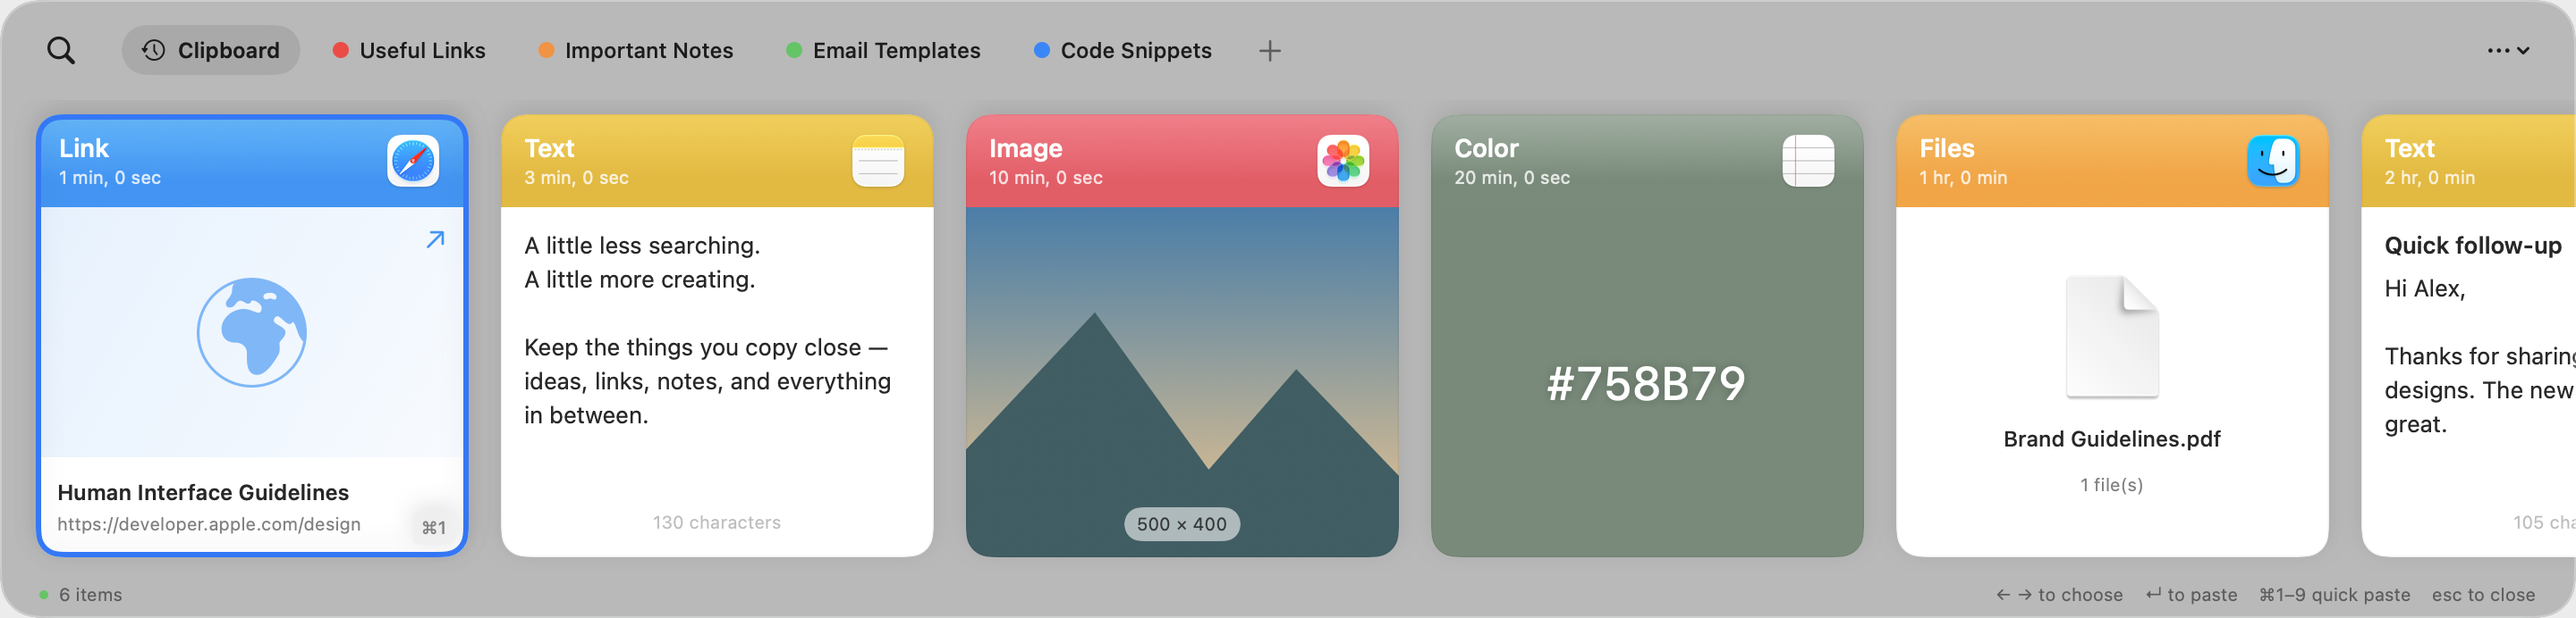
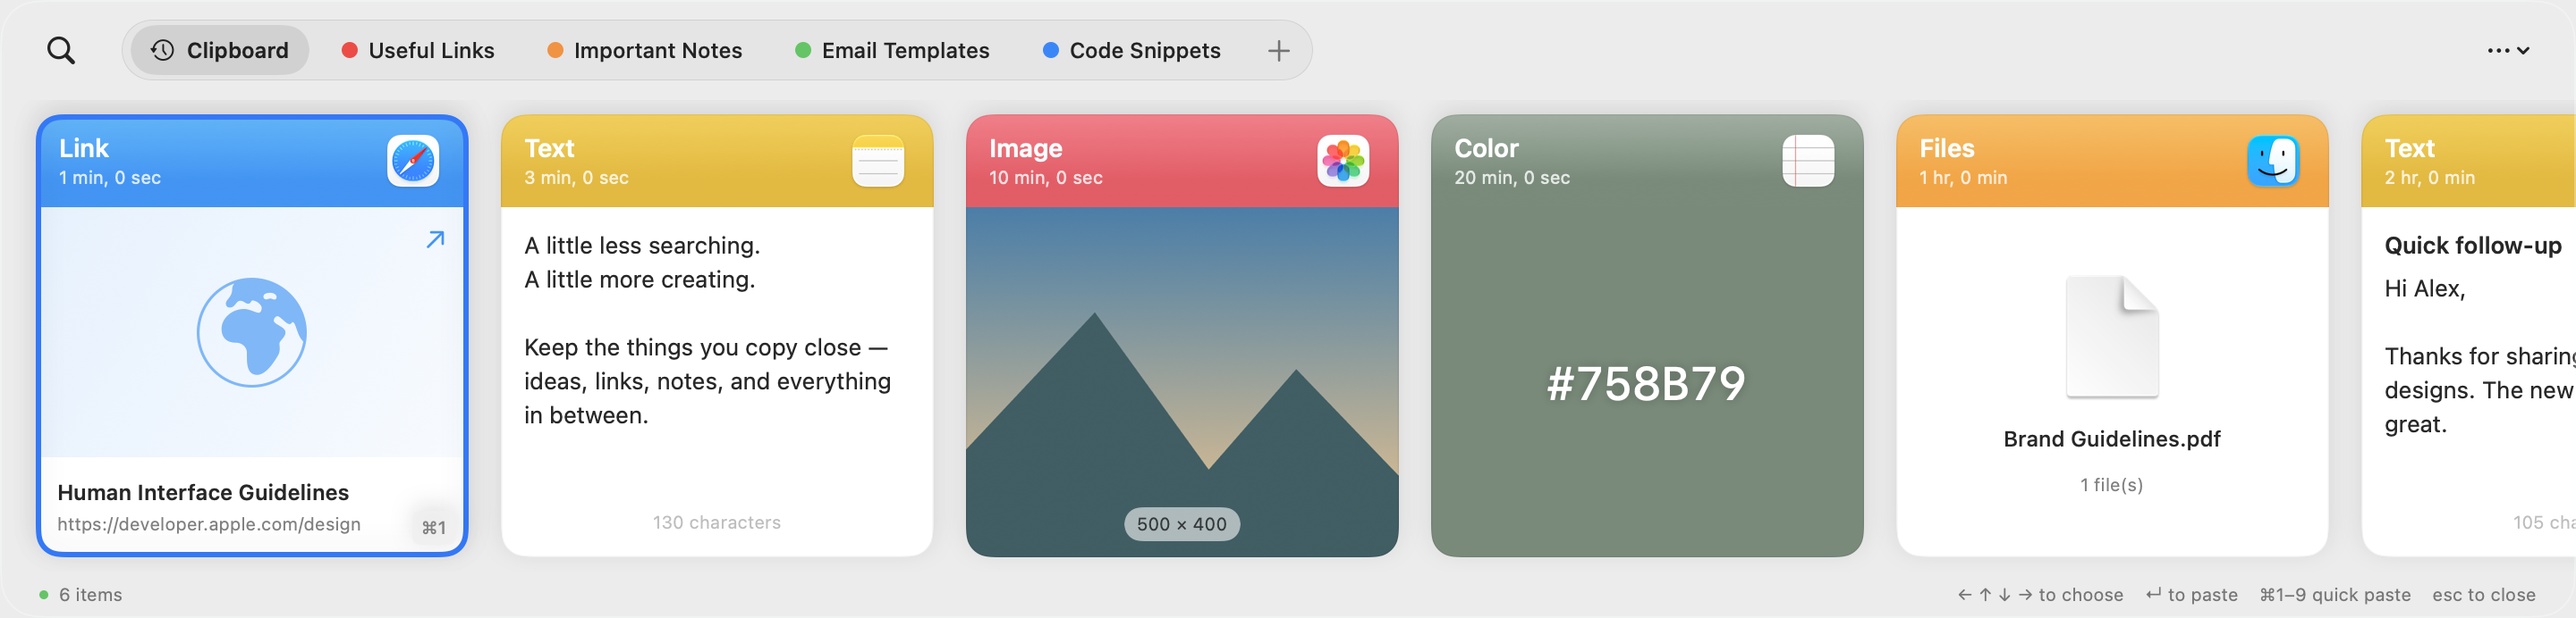
Redesign product README in Vietnamese and English with updated previews

diff --git a/README.md b/README.md
@@ -1,90 +1,196 @@
 <p align="center">
-  <img src="Assets/AppIcon.png" width="100" alt="ClipNest icon">
+  <img src="Assets/AppIcon.png" width="104" alt="ClipNest">
 </p>
 
 <h1 align="center">ClipNest</h1>
-<p align="center"><strong>Giữ lại những gì bạn copy. Tìm lại ngay khi cần.</strong></p>
-<p align="center">Một ứng dụng clipboard gọn gàng dành cho Mac, được tạo bởi <a href="https://github.com/hieupnvmg">hieupn</a>.</p>
-<p align="center"><a href="https://github.com/hieupnvmg/ClipNest/releases/latest/download/ClipNest-0.5.6-Apple-Silicon.dmg"><strong>↓ Tải ClipNest cho Mac</strong></a> · Apple Silicon · macOS 13 trở lên</p>
 
-![Giao diện ClipNest với dữ liệu minh họa](docs/preview.png)
+<p align="center">
+  <strong>Copy một lần. Tìm lại bất cứ lúc nào.</strong><br>
+  Copy once. Find it whenever you need it.
+</p>
 
-Bạn vừa copy một đường link, rồi copy tiếp một đoạn văn và mất nội dung trước đó? ClipNest giữ lại lịch sử để bạn có thể tìm và dùng lại bất cứ lúc nào.
+<p align="center">
+  Một góc nhỏ cho mọi thứ bạn copy trên Mac.<br>
+  A little home for everything you copy on your Mac.
+</p>
 
-### Có gì trong ClipNest?
+<p align="center">
+  <img src="https://img.shields.io/badge/macOS-13%2B-111827?style=flat-square" alt="macOS 13 or later">
+  <img src="https://img.shields.io/badge/Mac-Apple%20Silicon-007AFF?style=flat-square" alt="Apple Silicon Macs">
+  <img src="https://img.shields.io/badge/Storage-On%20your%20Mac-17803D?style=flat-square" alt="Clipboard history stored locally">
+</p>
 
-- **Lịch sử clipboard:** lưu văn bản, đường link, ảnh, mã màu và tham chiếu file.
-- **Tìm kiếm tức thì:** mở bằng `⌘⇧V`, gõ từ khóa và nhấn `Enter` để dán.
-- **Pinboard:** gom ghi chú, link và nội dung hay dùng vào từng nhóm riêng.
-- **Dán theo cách bạn muốn:** giữ định dạng hoặc dán văn bản thuần.
-- **Giao diện gọn:** các thẻ nội dung hiện ở cạnh dưới màn hình; nhấn `Esc` một lần để đóng.
-- **Cập nhật trong app:** tự kiểm tra bản mới hoặc nhấn Check for Updates trong Settings.
-- **Độ trong suốt theo ý bạn:** chỉnh nền bằng thanh kéo, áp dụng ngay.
-- **Phím tắt tùy chỉnh:** đổi tổ hợp mở clipboard trong Settings, mặc định `⌘⇧V`, có nút khôi phục.
-- **Chủ động quản lý:** tạm dừng ghi nhận, loại trừ ứng dụng, xem dung lượng và xóa lịch sử trong Settings.
-- **Tự che nội dung nhạy cảm:** mật khẩu/khóa và thông tin cá nhân nhận diện được vẫn lưu để dán nguyên bản, chỉ che khi hiển thị.
+<p align="center">
+  <a href="https://github.com/hieupnvmg/ClipNest/releases/latest"><strong>↓ Tải cho Mac · Download for Mac</strong></a>
+  &nbsp; · &nbsp;
+  <a href="https://github.com/hieupnvmg/ClipNest/issues">Góp ý · Feedback</a>
+</p>
 
-### Cài đặt
+<p align="center">
+  <a href="#tiếng-việt">Tiếng Việt</a> &nbsp; | &nbsp; <a href="#english">English</a>
+</p>
 
-1. [Tải file DMG](https://github.com/hieupnvmg/ClipNest/releases/latest/download/ClipNest-0.5.6-Apple-Silicon.dmg).
-2. Mở file, kéo **ClipNest** vào **Applications**.
-3. Mở ClipNest và bắt đầu copy. App nằm trên menu bar.
-4. App tự nhắc cấp quyền Accessibility nếu chưa có. Để dán thẳng sang ứng dụng khác, bật ClipNest tại **System Settings → Privacy & Security → Accessibility**. Nếu chưa cấp quyền, chọn một mục rồi nhấn `⌘V` để dán.
+![ClipNest — giao diện sáng với dữ liệu minh họa / light appearance with sample content](docs/preview.png)
 
-Bản hiện tại: **0.5.6**, dành cho **Mac M1 trở lên, macOS 13+**. Chưa có bản Mac Intel. App chưa được Apple notarize; nếu macOS chặn do chưa xác minh nhà phát triển, xem [hướng dẫn mở app của Apple](https://support.apple.com/en-au/102445).
+<details>
+<summary>Xem giao diện tối · See dark appearance</summary>
 
-### Phím tắt
+![ClipNest — tìm kiếm trong giao diện tối / search in dark appearance](docs/preview-dark.png)
+
+</details>
+
+## Tiếng Việt
+
+Bạn vừa copy một đường link, rồi copy tiếp một đoạn văn và mất nội dung trước đó? **ClipNest giữ lại lịch sử clipboard để bạn tìm và dùng lại ngay khi cần.** Không cần tài khoản, không đồng bộ iCloud.
+
+### Mở. Gõ. Dán.
+
+Nhấn **`⇧⌘V`** → gõ từ khóa → chọn nội dung → nhấn **`Enter`**.
+
+| | Dành cho công việc hằng ngày |
+| :--- | :--- |
+| **Lưu những gì cần giữ** | Văn bản, đường link, ảnh, mã màu và tham chiếu file trong một lịch sử dễ xem. |
+| **Tìm lại thật nhanh** | Gõ ngay khi mở, dùng phím mũi tên để chọn hoặc `⌘1`–`⌘9` để dán nhanh. |
+| **Sắp xếp bằng pinboard** | Gom mẫu trả lời, ghi chú và link thường dùng thành từng nhóm. |
+| **Dán theo ý bạn** | Dán giữ định dạng hoặc chọn văn bản thuần. |
+| **Gọn trên màn hình** | Bảng clipboard ở cạnh dưới, hỗ trợ sáng/tối và giao diện Liquid Glass. |
+| **Tùy chỉnh cho quen tay** | Đổi phím tắt, độ trong suốt, bật khởi động cùng macOS và cập nhật trong app. |
+| **Chủ động với dữ liệu** | Che nội dung nhạy cảm, loại trừ ứng dụng, tạm dừng ghi nhận, xem dung lượng và xóa lịch sử. |
+
+### Cài trong một phút
+
+1. [Tải bản mới nhất](https://github.com/hieupnvmg/ClipNest/releases/latest), chọn file **`.dmg`**.
+2. Mở DMG, kéo **ClipNest** vào **Applications** rồi mở app.
+3. Để dán trực tiếp sang app khác, cho phép ClipNest tại **System Settings → Privacy & Security → Accessibility**. Khi chưa cấp quyền, bạn vẫn có thể copy một mục từ ClipNest và dùng `⌘V` để dán.
+
+**Yêu cầu:** Mac dùng chip Apple Silicon (M1 trở lên), macOS 13+. Chưa có bản Intel. App chưa được Apple notarize; nếu macOS chặn khi mở, xem [hướng dẫn của Apple](https://support.apple.com/102445).
+
+### Chỉnh theo cách bạn dùng Mac
+
+| Trong Settings | Bạn có thể |
+| :--- | :--- |
+| **Appearance** | Chọn **Standard / Liquid Glass**, chỉnh độ trong suốt. Liquid Glass chính chủ có trên macOS 26+; macOS cũ dùng nền mờ dự phòng. |
+| **Startup** | Bật **Launch at login** để mở cùng macOS. Nếu cần, chọn **Open Login Items…** để xác nhận với hệ thống. |
+| **Open Clipboard** | Chọn **Change…** để đổi phím tắt hoặc **Reset** về `⇧⌘V`. |
+| **Updates** | Kiểm tra bản mới hoặc bật kiểm tra tự động; bạn xác nhận trước khi cài. |
+| **Clipboard Storage** | Xem dung lượng và dùng **Clear** để xóa toàn bộ lịch sử, gồm cả mục đã ghim, sau khi xác nhận. |
+
+### Những phím bạn sẽ hay dùng
 
 | Phím | Thao tác |
-| --- | --- |
-| `⌘⇧V` | Mở / đóng ClipNest |
-| Gõ ngay sau khi mở | Tìm trong lịch sử |
+| :--- | :--- |
+| `⇧⌘V` | Mở / đóng ClipNest; có thể đổi trong Settings |
+| Gõ sau khi mở | Tìm trong lịch sử |
+| `←` `→` hoặc `↑` `↓` | Chọn mục, kể cả khi đang ở ô tìm kiếm |
 | `Enter` | Dán mục đang chọn |
-| `←` / `→` hoặc `↑` / `↓` | Chọn nội dung ngay cả khi đang ở ô tìm kiếm |
-| `⌘1` đến `⌘9` | Dán nhanh một trong chín mục đầu |
+| `⌘1`–`⌘9` | Dán nhanh một trong chín mục đầu |
 | `⌘F` | Quay lại ô tìm kiếm |
 | `Esc` | Đóng bảng clipboard |
 
-### Cập nhật và giao diện
+### Nội dung nhạy cảm được xử lý thế nào?
 
-Từ bản 0.4.0, bạn có thể kiểm tra và cài bản mới ngay trong **Settings → Updates**. App tự kiểm tra hằng ngày khi tùy chọn này được bật; bạn xác nhận trước khi cài. Người đang dùng 0.3.1 trở về trước cần cài bản 0.4.0 thủ công một lần.
+**Chỉ che khi hiển thị — vẫn lưu và dán nguyên bản.** Tự bảo vệ nội dung nhạy cảm bật mặc định. App nhận diện một số mẫu email, số điện thoại, số thẻ thanh toán, mật khẩu có ngữ cảnh, API key/token và khóa riêng tư.
 
-Trong **Settings → Appearance**, kéo thanh độ trong suốt để chỉnh nền cho dễ nhìn. Lựa chọn được lưu tự động.
+- Email, số điện thoại và số thẻ được che một phần; mục có mật khẩu hoặc khóa bí mật nhận diện được sẽ che toàn bộ.
+- Chọn **Hiện tạm 15 giây** để xem; đóng bảng sẽ che lại. Cần hiện tạm trước khi kéo thả hoặc chỉnh sửa mục đang che.
+- Nhận diện có thể nhầm hoặc bỏ sót. Mật khẩu đứng riêng chưa chắc được nhận diện; app chưa đọc chữ trong ảnh.
 
-### Đổi phím tắt
+Lịch sử nằm trên từng Mac và **không có mã hóa riêng ở tầng ứng dụng**. Che nội dung không mã hóa bản gốc. ClipNest không tải lịch sử lên máy chủ; kết nối mạng của app phục vụ kiểm tra và tải cập nhật từ GitHub. Bạn có thể tắt kiểm tra tự động trong Settings.
 
-Mở **Settings → Open Clipboard → Change…**, sau đó nhấn tổ hợp bạn muốn dùng. Cần kết hợp Command, Option hoặc Control với một phím; nhấn Esc để hủy. Lựa chọn được lưu tự động. Nút **Reset** đưa về `⌘⇧V`. Nếu phím tắt đang bị ứng dụng khác chiếm, app sẽ báo để bạn chọn lại.
-
-### Dữ liệu ở trên máy bạn
-
-**Tự bảo vệ nội dung nhạy cảm** bật mặc định trong Settings. Từ 0.5.6, app chỉ che trên giao diện, không tự loại khỏi lịch sử theo pattern. Mật khẩu có ngữ cảnh, token/API key, private key, email, số điện thoại và số thẻ nhận diện được vẫn giữ bản gốc để dán lại. Lựa chọn “Không lưu” theo pattern của bản trước đã được bỏ; danh sách ứng dụng loại trừ và clipboard đánh dấu bí mật vẫn được xử lý riêng như trước.
-
-Nút **Hiện 15 giây** chỉ mở tạm nội dung, sau đó tự che lại; đóng bảng cũng che lại ngay. Bạn vẫn dán được bản gốc. Kéo thả và chỉnh sửa mục đang che yêu cầu hiện tạm trước.
-
-Chế độ che vẫn giữ dữ liệu gốc trong máy để dán lại, không phải mã hóa. Nội dung cũ chỉ được che khi nhận diện, không tự xóa khỏi lịch sử. Nhận diện có thể nhầm hoặc bỏ sót, đặc biệt là mật khẩu đứng riêng không có dấu hiệu; bản này chưa quét chữ trong ảnh.
-
-ClipNest không cần tài khoản và không đồng bộ iCloud. Lịch sử được lưu cục bộ trên từng Mac, không được app gửi lên máy chủ. App chỉ kết nối GitHub để kiểm tra và tải bản cập nhật; bạn có thể tắt tự kiểm tra trong Settings. App bỏ qua các ứng dụng trong danh sách loại trừ và các nội dung clipboard có đánh dấu bí mật; bạn vẫn nên tạm dừng ghi nhận khi xử lý thông tin nhạy cảm. Lịch sử không có mã hóa riêng ở tầng ứng dụng.
-
-Settings hiển thị dung lượng đang dùng và có nút **Clear**. Clear xóa cả các mục đã ghim sau khi bạn xác nhận. File được lưu dưới dạng tham chiếu; nếu bạn di chuyển hoặc xóa file gốc thì tham chiếu có thể không còn dùng được.
-
-### Góp ý
-
-Bạn gặp lỗi hoặc muốn thêm tính năng? [Tạo một issue](https://github.com/hieupnvmg/ClipNest/issues) để chia sẻ nhé.
+Ứng dụng trong danh sách loại trừ và clipboard được đánh dấu bí mật/tạm thời vẫn bị bỏ qua. File được lưu dưới dạng tham chiếu; nếu file gốc bị di chuyển hoặc xóa, tham chiếu có thể không còn dùng được.
 
 <details>
-<summary>Dành cho người muốn tự build</summary>
+<summary>Xem ví dụ nội dung được che</summary>
 
-Cần macOS và Apple Command Line Tools có Swift 5.9 trở lên.
+![ClipNest — dữ liệu minh họa đã được che](docs/privacy-preview.png)
+
+</details>
+
+**Có ý tưởng hoặc gặp lỗi?** [Mở một issue](https://github.com/hieupnvmg/ClipNest/issues) để chia sẻ với mình.
+
+---
+
+## English
+
+Copied a link, then copied something else and lost the first one? **ClipNest keeps your clipboard history close, so you can find and reuse it whenever you need it.** No account required. No iCloud sync.
+
+### Open. Type. Paste.
+
+Press **`⇧⌘V`** → type to search → select an item → press **`Enter`**.
+
+| | Made for everyday work |
+| :--- | :--- |
+| **Keep what you copy** | Browse text, links, images, colors, and file references in one place. |
+| **Find it quickly** | Type as soon as the panel opens, select with arrow keys, or quick-paste with `⌘1`–`⌘9`. |
+| **Organize with pinboards** | Group your go-to replies, notes, and links. |
+| **Paste your way** | Keep formatting or paste as plain text. |
+| **Stay out of the way** | A bottom-of-screen panel with light, dark, and Liquid Glass appearances. |
+| **Make it feel familiar** | Customize the shortcut and transparency, launch at login, and update in the app. |
+| **Stay in control** | Mask sensitive content, exclude apps, pause capture, check storage, and clear history. |
+
+### Install in a minute
+
+1. [Get the latest release](https://github.com/hieupnvmg/ClipNest/releases/latest) and download the **`.dmg`** file.
+2. Open the DMG, drag **ClipNest** into **Applications**, and launch it.
+3. For direct pasting into other apps, enable ClipNest in **System Settings → Privacy & Security → Accessibility**. Without permission, you can still copy an item from ClipNest and paste it with `⌘V`.
+
+**Requires:** an Apple Silicon Mac (M1 or later), running macOS 13+. An Intel build is not available. The app is not notarized by Apple yet; if macOS blocks it, follow [Apple’s instructions](https://support.apple.com/102445).
+
+### Make it yours
+
+| In Settings | What you can do |
+| :--- | :--- |
+| **Appearance** | Choose **Standard / Liquid Glass** and adjust transparency. Native Liquid Glass requires macOS 26+; earlier versions use a frosted background. |
+| **Startup** | Enable **Launch at login**. If approval is required, use **Open Login Items…** to finish in macOS Settings. |
+| **Open Clipboard** | Use **Change…** to record a shortcut, or **Reset** to restore `⇧⌘V`. |
+| **Updates** | Check manually or enable automatic checks; installation requires your confirmation. |
+| **Clipboard Storage** | See storage usage and use **Clear** to delete all history, including pinned items, after confirmation. |
+
+### Handy shortcuts
+
+| Shortcut | Action |
+| :--- | :--- |
+| `⇧⌘V` | Toggle ClipNest; customizable in Settings |
+| Type after opening | Search history |
+| `←` `→` or `↑` `↓` | Select an item, even while the search field is focused |
+| `Enter` | Paste the selected item |
+| `⌘1`–`⌘9` | Quick-paste one of the first nine items |
+| `⌘F` | Focus search |
+| `Esc` | Close the clipboard panel |
+
+### How sensitive content is handled
+
+**Masked on screen. Saved and pasted in its original form.** Sensitive-content protection is enabled by default. It recognizes some email addresses, phone numbers, payment-card numbers, passwords with context, API keys/tokens, and private keys.
+
+- Emails, phone numbers, and card numbers are partially masked. An item containing a recognized password or secret is hidden in full.
+- Reveal an item for **15 seconds**; closing the panel hides it again. Reveal is required before dragging or editing a masked item.
+- Detection can produce false positives or miss content. A standalone password may not be recognized, and text inside images is not scanned.
+
+History stays on each Mac, **without app-level encryption**. Masking does not encrypt the stored original. ClipNest does not upload your history; app network connections are used to check for and download updates from GitHub. Automatic checks can be disabled in Settings.
+
+Excluded apps and clipboard content marked as secret or temporary are still skipped. Files are stored as references; moving or deleting the original file may break the reference.
+
+**Have an idea or found a bug?** [Open an issue](https://github.com/hieupnvmg/ClipNest/issues).
+
+---
+
+<details>
+<summary>Tự build · Build it yourself</summary>
+
+Build on macOS with Apple Command Line Tools and Swift 5.9 or later. For native Liquid Glass, use an SDK with macOS 26 support.
 
 ```sh
+git clone https://github.com/hieupnvmg/ClipNest.git
+cd ClipNest
 ./build.sh
 ../ClipNest.app/Contents/MacOS/ClipNest --self-test
 ```
 
-App được tạo ở thư mục bên cạnh repo. Các bài kiểm tra dùng dữ liệu tạm, không thay đổi lịch sử thật. Xem [ghi chú phát triển](docs/DEVELOPING.md) nếu cần thêm thông tin.
+The app is created next to the repository. Tests use temporary data and do not modify your real clipboard history. More details: [Development notes](docs/DEVELOPING.md).
 
 </details>
 
-Bạn có thể bật **Settings → Startup → Launch at login** để ClipNest mở cùng macOS. Nếu hệ thống yêu cầu, chọn **Open Login Items…** để cho phép.
-
-**Giao diện:** Chọn Standard hoặc Liquid Glass trong Settings → Appearance. Liquid Glass chính chủ trên macOS 26 trở lên, nền mờ dự phòng trên macOS cũ.
+<p align="center">
+  Made for Mac by <a href="https://github.com/hieupnvmg">hieupn</a>.<br>
+  <a href="#clipnest">↑ Về đầu trang · Back to top</a>
+</p>
